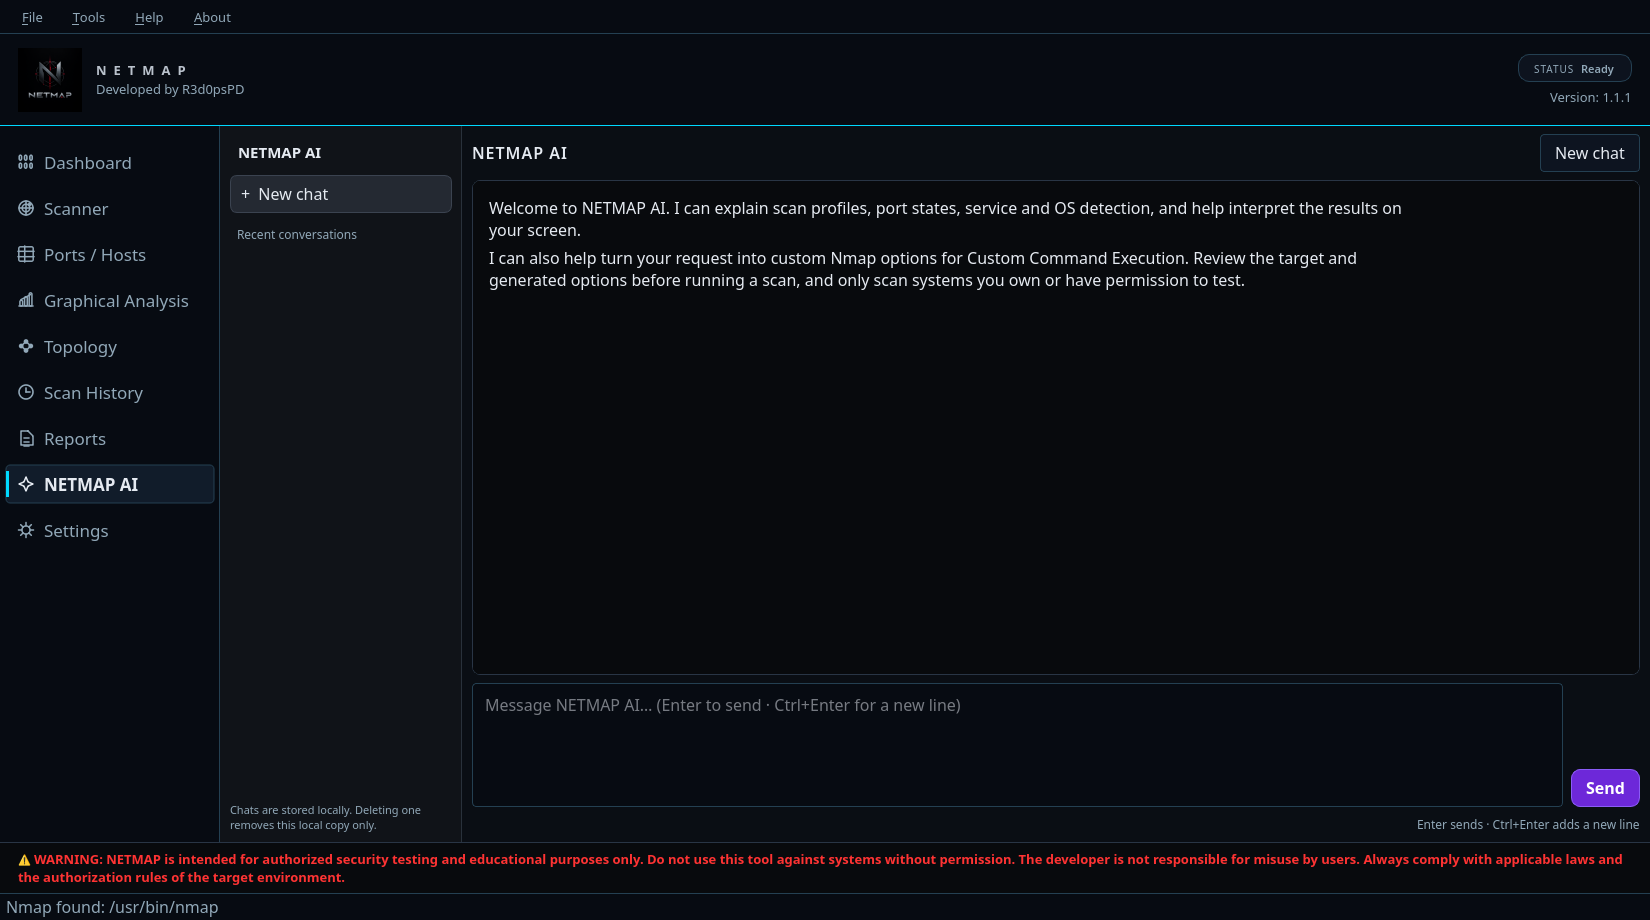
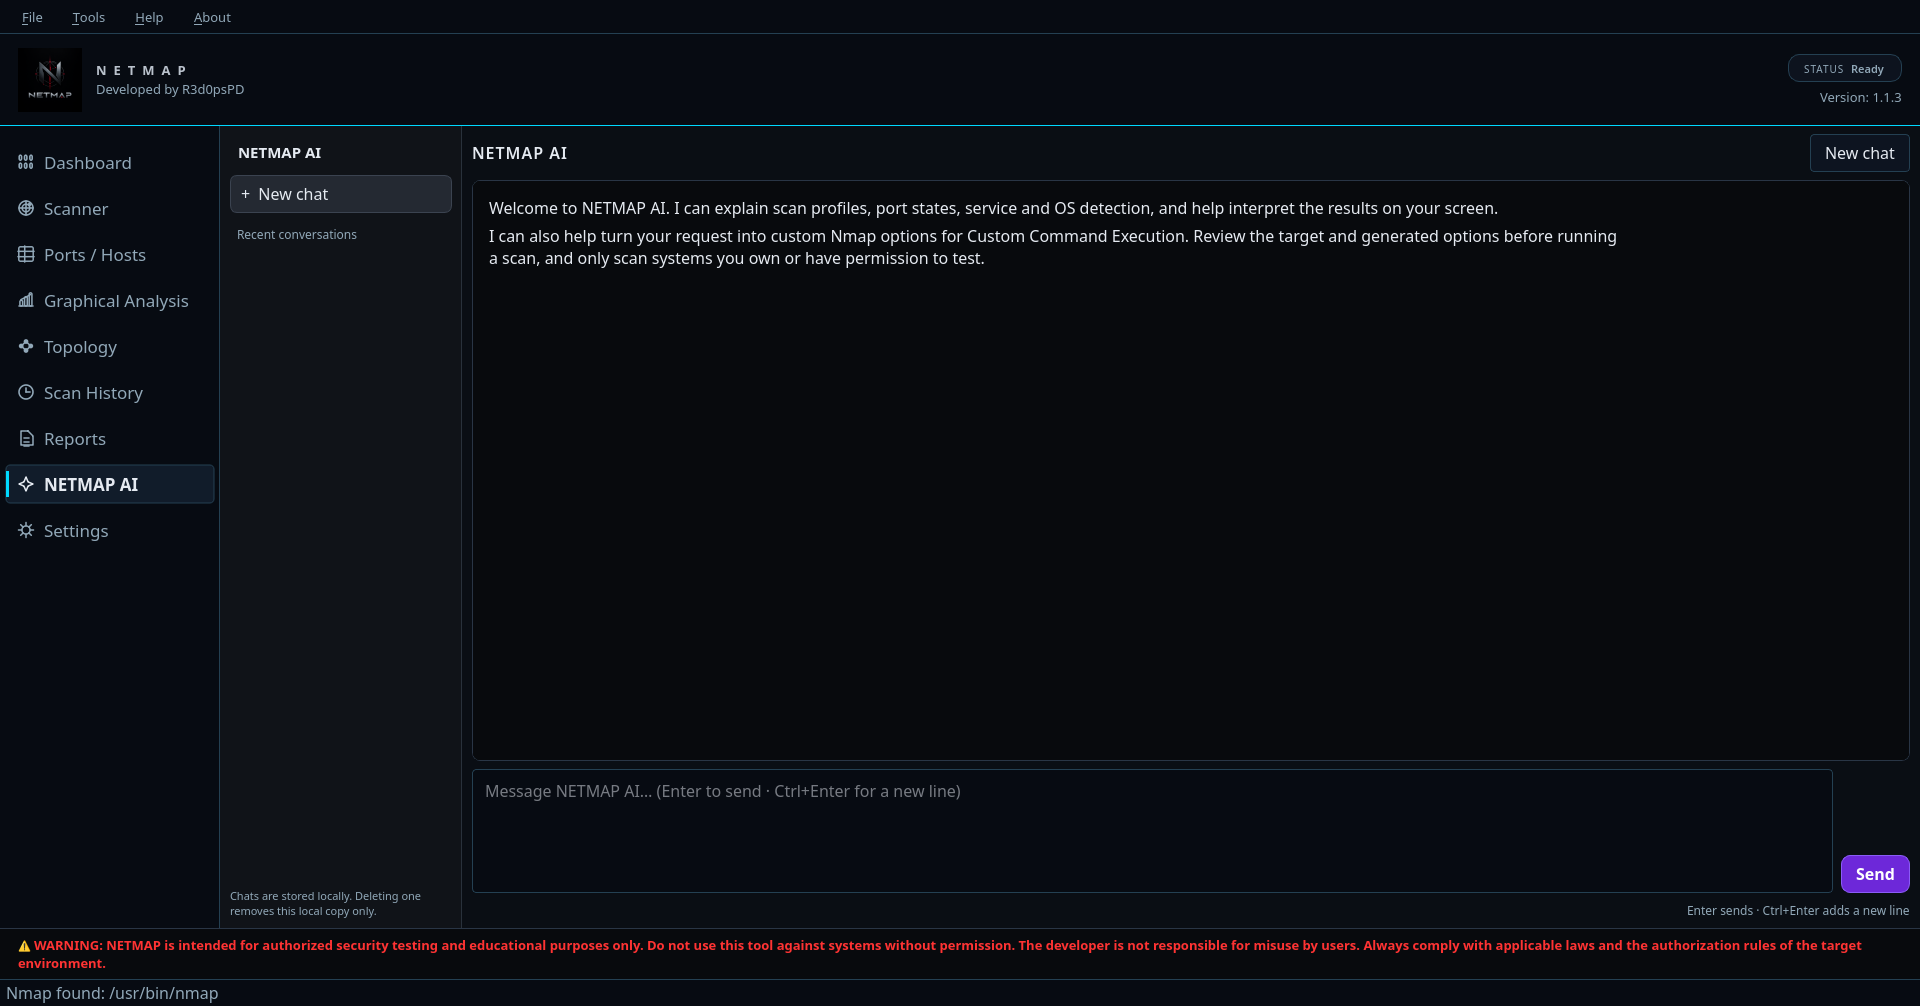
docs: refresh v1.1.3 release README and screenshots

diff --git a/README.md b/README.md
@@ -1,10 +1,14 @@
 # NETMAP Linux Release
 
-NETMAP is an independent desktop application for using Nmap for authorized network discovery, service analysis, topology visualization, and reporting. It is not an official Nmap product.
+NETMAP is an independent desktop application for using Nmap for authorized network discovery, service analysis, topology visualization, and reporting. It is **not an official Nmap product**.
 
-## Install from a terminal
+- **Latest release:** [NETMAP 1.1.3 — Linux x86_64](https://github.com/R3d0psPD/Netmap/releases/latest)
+- **Platform:** 64-bit Linux on x86_64 with a supported glibc environment
+- **Package:** compiled standalone application; the NETMAP Python application source is not included
 
-Run these commands from the directory where you want the `Netmap` folder to be created. No `cd` command is needed. This distribution repository must be publicly accessible (or your GitHub account must have access).
+## Install and run
+
+Open a terminal in the directory where you want the `Netmap` folder to be created, then run:
 
 ```bash
 git clone --depth 1 https://github.com/R3d0psPD/Netmap.git
@@ -12,48 +16,58 @@ chmod +x Netmap/run.sh
 ./Netmap/run.sh
 ```
 
-The launcher downloads the latest compiled Linux release, verifies its SHA-256 checksum, extracts it into the local `.runtime/` folder inside the clone, and starts NETMAP. It automatically uses `curl` or `wget` to download. Install `unzip` and `sha256sum` if they are not already available. The launcher never fetches the NETMAP Python application source code.
+The launcher downloads the latest compiled Linux release, verifies the signed checksum manifest and archive hash, extracts the verified package into `.runtime/` inside the cloned repository, and launches NETMAP. It does not download or execute the NETMAP Python application source code.
 
-If you want a custom clone-folder name, use that name in the last two commands as well.
+### Prerequisites
 
-## Requirements
+NETMAP requires a graphical Linux desktop and these commands to be available: `bash`, `curl` or `wget`, `gpg`, `sha256sum`, and `unzip`. Git is required to clone this repository. Nmap must be installed separately and available as `nmap` in `PATH`.
 
-- 64-bit Linux on x86_64 with a supported glibc environment.
-- Nmap installed and available as `nmap` in `PATH`. Nmap is not bundled.
-- An operating-system credential manager, such as KWallet or Secret Service, if you want NETMAP to save provider API keys.
-- Internet access for remote AI services.
-- `gpg` for verifying the release manifest signature when using the launcher.
-
-On Kali Linux or Debian-based systems, install Nmap with:
+On Kali Linux or Debian/Ubuntu-based systems, install the common requirements with:
 
 ```bash
 sudo apt update
-sudo apt install nmap gnupg
+sudo apt install -y git nmap gnupg curl unzip coreutils ca-certificates
 ```
 
-This release does not include a native Windows package.
+`coreutils` provides `sha256sum`. The launcher can use `wget` instead of `curl` if curl is not installed. If you already have the prerequisites, no package installation command is needed.
+
+The launcher creates a private `.runtime/` directory inside the clone and keeps its downloaded archive and extracted application there. The application is not installed system-wide. Do not run NETMAP as root unless a specific authorized scan requires privileges and you understand the implications.
+
+If you rename the clone folder, replace `Netmap` with your chosen folder name in the `chmod` and launch commands. This release does not include a native Windows package.
+
+## Troubleshooting
+
+- **`Required command ... was not found`:** install the named command using your Linux package manager, then run `./Netmap/run.sh` again.
+- **`nmap` is not found by NETMAP:** install Nmap and confirm that `command -v nmap` returns its path.
+- **Download fails:** check Internet access and whether GitHub Releases are reachable from your network.
+- **Signature or checksum verification fails:** do not run the downloaded executable. Retry the download later and compare the signing-key fingerprint against a separately trusted NETMAP developer source.
+- **The window does not open:** use a supported 64-bit Linux desktop session with a compatible glibc and the required runtime libraries. A headless terminal alone is not sufficient for this GUI application.
 
 ## NETMAP AI
 
-Each user supplies their own provider API key in **Settings > NETMAP AI**. NETMAP does not include a shared developer API key. Supported protocols and authentication options depend on the selected provider or custom endpoint. Use **Load API models** to query the selected endpoint, then use **Test connection** before sending a request.
+Each user supplies their own supported provider API key in **Settings > NETMAP AI**. This release does not include a shared developer API key. Provider protocols, authentication methods, model availability, rate limits, and charges depend on the selected provider or custom endpoint; NETMAP does not guarantee that every provider or model is compatible.
 
-Saved API credentials use the operating system's credential manager when available. NETMAP does not promise that every provider or model is compatible. Provider availability, rate limits, and charges are controlled by the provider.
-
-Review scan-context and privacy options before sending prompts or scan details to a remote AI service. Local knowledge features may still be available without a cloud request.
+Use **Load API models** to query the selected endpoint and **Test connection** before sending a request. Saved API credentials use the operating system's credential manager when available. Review privacy and scan-context settings before sending prompts or scan details to a remote AI service. Never post API keys, passwords, or tokens in public issues or screenshots.
 
 ## Local data and privacy
 
-NETMAP scan history, target history, settings, and AI conversation history are stored locally for the current operating-system user. They are not included in the repository or release download and are not automatically sent to other NETMAP users.
+Scan history, target history, settings, and NETMAP AI conversation history are stored locally for the current operating-system user. They are not included in this repository or the release ZIP and are not automatically sent to other NETMAP users.
 
-The compiled release stores its local database under `$XDG_DATA_HOME/netmap`, or `~/.local/share/netmap` when `XDG_DATA_HOME` is not set. A source-development checkout uses the separate legacy `~/.netmap` directory. This prevents the downloaded release from reusing scan history created by the source-development copy on the same computer.
+The compiled release stores its database under `$XDG_DATA_HOME/netmap`, or `~/.local/share/netmap` when `XDG_DATA_HOME` is not set. A source-development checkout uses the separate legacy `~/.netmap` directory. Remote AI providers receive only the information sent in requests; review the app's privacy and scan-context settings before sending data. Provider-side processing is governed by the provider's own terms and policies.
 
-Each operating-system account has its own home/data directory. Do not share your local database or screenshots containing scan details with others unless you have reviewed and sanitized them.
+Each operating-system account has its own home/data directory. Review and sanitize scan reports, database files, and screenshots before sharing them.
 
 ## Download integrity and authenticity
 
-The launcher verifies the detached OpenPGP signature on `SHA256SUMS` before trusting the SHA-256 checksum of the application ZIP. The public signing key is included as `NETMAP-RELEASE-KEY.asc`.
+The launcher verifies the detached OpenPGP signature on `SHA256SUMS` before trusting the SHA-256 checksum for the application ZIP. The public signing key is included as `NETMAP-RELEASE-KEY.asc`; no private signing key is included.
 
-Release signing-key fingerprint: `0B45 B609 3134 D3E3 ADB9 7C02 EDB2 243C 7827 C44D`. For manual verification, obtain the ZIP, `SHA256SUMS`, `SHA256SUMS.asc`, and `NETMAP-RELEASE-KEY.asc` from the same release, then run:
+Release signing-key fingerprint:
+
+```text
+0B45 B609 3134 D3E3 ADB9 7C02 EDB2 243C 7827 C44D
+```
+
+For manual verification, download `NETMAP-RELEASE-KEY.asc`, `SHA256SUMS`, `SHA256SUMS.asc`, and the ZIP from the [same release](https://github.com/R3d0psPD/Netmap/releases/latest), then run these commands from the directory containing those files:
 
 ```bash
 gpg --import NETMAP-RELEASE-KEY.asc
@@ -62,33 +76,40 @@ gpg --verify SHA256SUMS.asc SHA256SUMS
 sha256sum -c SHA256SUMS
 ```
 
-Before relying on the signature, compare the full fingerprint with a separately trusted NETMAP developer source. SHA-256 detects content changes; the signature helps establish that the checksum manifest was signed by the holder of the corresponding private key. Neither signature nor checksum guarantees that software is vulnerability-free.
-
-## Usage and authorization
-
-Use NETMAP only against systems you own or have explicit permission to test. Scanning behaviour depends on Nmap, target responses, network conditions, and available privileges. NETMAP does not guarantee that every host or service will be discovered.
+Before relying on the signature, compare the full fingerprint above with a separately trusted NETMAP developer source. A SHA-256 checksum detects content changes; the OpenPGP signature helps establish that the manifest was signed by the holder of the corresponding private key. Neither proves that the software is vulnerability-free. If a signature or checksum check fails, do not execute the package.
 
 ## Screenshots
 
-These screenshots were captured from a clean, isolated NETMAP profile with no saved scans, targets, conversations, or API keys. They do not show a developer's personal history or configuration.
+The screenshots below were captured from NETMAP 1.1.3 using an isolated profile with no saved scans, targets, conversations, or API keys. They show the current interface without the developer's personal history or configuration.
 
-| | |
+| Dashboard | Scanner |
 | --- | --- |
-| ![NETMAP dashboard](docs/screenshots/dashboard.png) | ![NETMAP scanner](docs/screenshots/scanner.png) |
-| **Dashboard** | **Scanner** |
-| ![Ports and hosts](docs/screenshots/ports-hosts.png) | ![Graphical analysis](docs/screenshots/graphical-analysis.png) |
-| **Ports / Hosts** | **Graphical Analysis** |
-| ![Network topology](docs/screenshots/topology.png) | ![NETMAP AI](docs/screenshots/netmap-ai.png) |
-| **Topology** | **NETMAP AI** |
-| ![Scan history](docs/screenshots/history.png) | ![Report preview](docs/screenshots/reports.png) |
-| **Scan History** | **Reports** |
-| ![NETMAP AI settings](docs/screenshots/ai-settings.png) | ![NETMAP Help](docs/screenshots/help.png) |
-| **AI Settings** | **Help** |
+| ![NETMAP 1.1.3 dashboard](docs/screenshots/dashboard.png) | ![NETMAP 1.1.3 scanner](docs/screenshots/scanner.png) |
+
+| Ports / Hosts | Graphical Analysis |
+| --- | --- |
+| ![NETMAP 1.1.3 ports and hosts](docs/screenshots/ports-hosts.png) | ![NETMAP 1.1.3 graphical analysis](docs/screenshots/graphical-analysis.png) |
+
+| Network Topology | Scan History |
+| --- | --- |
+| ![NETMAP 1.1.3 network topology](docs/screenshots/topology.png) | ![NETMAP 1.1.3 scan history](docs/screenshots/history.png) |
+
+| Reports | NETMAP AI |
+| --- | --- |
+| ![NETMAP 1.1.3 reports](docs/screenshots/reports.png) | ![NETMAP 1.1.3 NETMAP AI](docs/screenshots/netmap-ai.png) |
+
+| NETMAP AI Settings | Help |
+| --- | --- |
+| ![NETMAP 1.1.3 AI settings](docs/screenshots/ai-settings.png) | ![NETMAP 1.1.3 help](docs/screenshots/help.png) |
+
+## Usage and authorization
+
+Use NETMAP only against systems you own or have explicit permission to test. Scan results depend on Nmap, target responses, network conditions, permissions, and available privileges. NETMAP does not guarantee that every host or service will be discovered.
 
 ## License and source availability
 
-NETMAP is distributed as a compiled application under the proprietary terms in EULA.md. The NETMAP application source code is not included in this repository or the release package. Unauthorized redistribution of NETMAP is prohibited, subject to rights that cannot be restricted under applicable law or the licenses of third-party components.
+NETMAP is distributed as a compiled application under the proprietary terms in [EULA.md](EULA.md). The NETMAP application source code is not included in this repository or the release package. Compiling the application can make casual inspection more difficult but does not guarantee that reverse engineering is impossible. Unauthorized redistribution is restricted by the EULA, subject to rights that cannot be restricted under applicable law or third-party licenses.
 
-GitHub automatically displays `Source code (zip)` and `Source code (tar.gz)` for release tags. Those links snapshot this distribution repository, including the small shell bootstrap launcher, documentation, screenshots, branding, and third-party license materials—not the NETMAP application Python source code. The launcher downloads the verified compiled release ZIP.
+GitHub also provides `Source code (zip)` and `Source code (tar.gz)` links for release tags. Those archives snapshot this distribution repository—including the small shell bootstrap launcher, documentation, screenshots, branding, and third-party license materials—not the NETMAP application Python source. The launcher downloads the signature- and checksum-verified compiled release ZIP.
 
-Qt/PySide and other third-party components retain their respective licenses. Read THIRD_PARTY_NOTICES.md, LICENSES/, and THIRD_PARTY_SOURCES.md. Third-party source archives are provided for their license requirements; they are not NETMAP application source code.
+Qt/PySide and other third-party components retain their own licenses. Read [THIRD_PARTY_NOTICES.md](THIRD_PARTY_NOTICES.md), `LICENSES/`, and [THIRD_PARTY_SOURCES.md](THIRD_PARTY_SOURCES.md). Third-party source archives are provided for the applicable license requirements; they are not NETMAP application source code.
